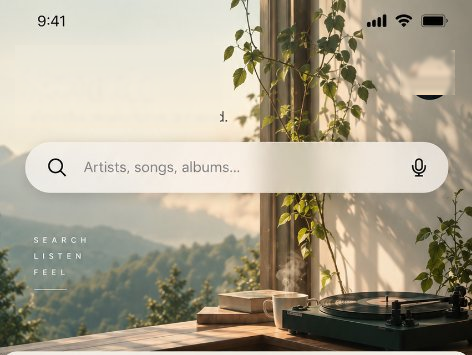
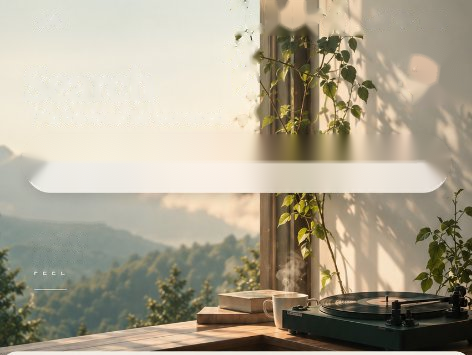
fix(search): remove duplicate search bar and motto, fix web focus outline, and improve spacing

diff --git a/components/search/SearchHeader.tsx b/components/search/SearchHeader.tsx
@@ -7,6 +7,7 @@ import {
   Image,
   StyleSheet,
   Pressable,
+  Platform,
 } from 'react-native';
 import { Ionicons } from '@expo/vector-icons';
 import { UserProfile } from '../../types';
@@ -129,7 +130,7 @@ export const SearchHeader: React.FC<SearchHeaderProps> = ({
 const styles = StyleSheet.create({
   container: {
     width: '100%',
-    height: 340,
+    height: 350,
     backgroundColor: Colors.background,
     overflow: 'hidden',
   },
@@ -140,7 +141,7 @@ const styles = StyleSheet.create({
   contentOverlay: {
     flex: 1,
     paddingHorizontal: Spacing.screenPadding,
-    paddingTop: Spacing.md,
+    paddingTop: Platform.OS === 'web' ? 36 : 28,
     justifyContent: 'flex-start',
   },
   topRow: {
@@ -171,6 +172,11 @@ const styles = StyleSheet.create({
   },
   avatarButton: {
     marginTop: 4,
+    ...Platform.select({
+      web: {
+        cursor: 'pointer',
+      } as any,
+    }),
   },
   avatar: {
     width: 38,
@@ -183,13 +189,18 @@ const styles = StyleSheet.create({
   searchBar: {
     flexDirection: 'row',
     alignItems: 'center',
-    backgroundColor: 'rgba(255, 255, 255, 0.88)',
+    backgroundColor: 'rgba(255, 255, 255, 0.90)',
     borderRadius: Radius.full,
     paddingHorizontal: 16,
     height: 48,
     borderWidth: 1,
     borderColor: 'rgba(255, 255, 255, 0.95)',
-    marginBottom: 24,
+    marginBottom: 20,
+    ...Platform.select({
+      web: {
+        backdropFilter: 'blur(10px)',
+      } as any,
+    }),
   },
   searchIcon: {
     marginRight: 10,
@@ -202,14 +213,31 @@ const styles = StyleSheet.create({
     paddingVertical: 0,
     height: '100%',
     fontWeight: '400',
+    ...Platform.select({
+      web: {
+        outlineStyle: 'none',
+        outlineWidth: 0,
+        boxShadow: 'none',
+      } as any,
+    }),
   },
   clearButton: {
     padding: 4,
     marginRight: 4,
+    ...Platform.select({
+      web: {
+        cursor: 'pointer',
+      } as any,
+    }),
   },
   micButton: {
     padding: 4,
     marginLeft: 4,
+    ...Platform.select({
+      web: {
+        cursor: 'pointer',
+      } as any,
+    }),
   },
   mottoContainer: {
     marginTop: 10,
@@ -221,11 +249,11 @@ const styles = StyleSheet.create({
     fontSize: 10,
     lineHeight: 14,
     letterSpacing: 3,
-    color: 'rgba(255, 255, 255, 0.85)',
+    color: 'rgba(255, 255, 255, 0.88)',
     fontWeight: '600',
-    textShadowColor: 'rgba(0, 0, 0, 0.35)',
+    textShadowColor: 'rgba(0, 0, 0, 0.3)',
     textShadowOffset: { width: 0, height: 1 },
-    textShadowRadius: 3,
+    textShadowRadius: 2,
   },
   pressed: {
     opacity: 0.7,

diff --git a/components/search/RecentSearches.tsx b/components/search/RecentSearches.tsx
@@ -5,6 +5,7 @@ import {
   StyleSheet,
   ScrollView,
   Pressable,
+  Platform,
 } from 'react-native';
 import { Ionicons } from '@expo/vector-icons';
 import { Colors } from '../../constants/colors';
@@ -114,6 +115,13 @@ const styles = StyleSheet.create({
     borderRadius: Radius.full,
     borderWidth: 0.5,
     borderColor: 'rgba(232, 226, 216, 0.7)',
+    marginRight: 8,
+    ...Platform.select({
+      web: {
+        cursor: 'pointer',
+        userSelect: 'none',
+      } as any,
+    }),
   },
   chipIcon: {
     marginRight: 6,
@@ -131,6 +139,11 @@ const styles = StyleSheet.create({
   clearButton: {
     paddingVertical: 4,
     paddingHorizontal: 2,
+    ...Platform.select({
+      web: {
+        cursor: 'pointer',
+      } as any,
+    }),
   },
   emptyContainer: {
     paddingHorizontal: Spacing.screenPadding,
@@ -148,3 +161,4 @@ const styles = StyleSheet.create({
 });
 
 export default RecentSearches;
+

diff --git a/components/search/SearchResultItem.tsx b/components/search/SearchResultItem.tsx
@@ -5,6 +5,7 @@ import {
   Image,
   StyleSheet,
   Pressable,
+  Platform,
 } from 'react-native';
 import { Ionicons } from '@expo/vector-icons';
 import { Song } from '../../types/music';
@@ -88,6 +89,11 @@ const styles = StyleSheet.create({
     flex: 1,
     flexDirection: 'row',
     alignItems: 'center',
+    ...Platform.select({
+      web: {
+        cursor: 'pointer',
+      } as any,
+    }),
   },
   artwork: {
     width: 52,
@@ -122,6 +128,11 @@ const styles = StyleSheet.create({
     padding: 6,
     justifyContent: 'center',
     alignItems: 'center',
+    ...Platform.select({
+      web: {
+        cursor: 'pointer',
+      } as any,
+    }),
   },
   menuPressed: {
     opacity: 0.5,

diff --git a/components/search/SearchScreen.tsx b/components/search/SearchScreen.tsx
@@ -143,12 +143,14 @@ const styles = StyleSheet.create({
   },
   scrollContent: {
     paddingBottom: 20,
+    flexGrow: 1,
   },
   sheetContainer: {
     backgroundColor: Colors.background,
     borderTopLeftRadius: 24,
     borderTopRightRadius: 24,
     marginTop: -16, // Seamless overlap onto hero background as shown in reference
+    flex: 1,
     minHeight: 500,
   },
   bottomSpacer: {
@@ -157,3 +159,4 @@ const styles = StyleSheet.create({
 });
 
 export default SearchScreen;
+

diff --git a/services/searchService.ts b/services/searchService.ts
@@ -17,3 +17,4 @@ export function searchSongs(query: string, songs: Song[]): Song[] {
     return titleMatch || artistMatch || albumMatch;
   });
 }
+

diff --git a/data/mockSongs.ts b/data/mockSongs.ts
@@ -57,3 +57,4 @@ export const initialRecentSearches: string[] = [
   'Joji',
   'Radiohead',
 ];
+

diff --git a/types/music.ts b/types/music.ts
@@ -14,3 +14,4 @@ export interface RecentSearchItem {
   id: string;
   query: string;
 }
+
